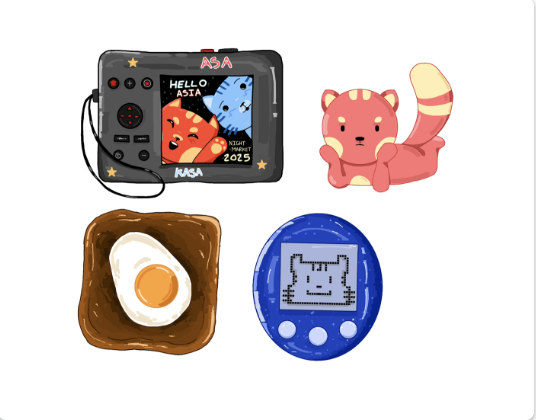
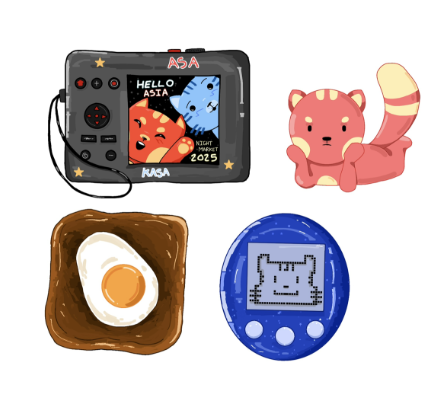
Make merch cards clickable and responsive
Add IDs to merch article elements and make images open the order Google Form in a new tab via onclick. Update layout and styles: .card_container now uses flex with centering, wrapping and gap; add hover scale/transition for merch cards; enforce consistent image sizing (100% width, 250px height, object-fit: contain). Also update tote-bag and stickers image assets.

diff --git a/styles_sheets/styles.css b/styles_sheets/styles.css
@@ -143,6 +143,10 @@ main {
 .card_container {
     text-align: center;
     margin-top: 25px;
+    display: flex;
+    justify-content: center;
+    flex-wrap: wrap;
+    gap: 20px;
 }
 
 .card {
@@ -167,6 +171,26 @@ main {
 }
 .card a:hover {
     text-decoration: underline;
+}
+.card_container #tote_bags:hover, #stickers:hover, #keychains:hover {
+    transform: scale(1.05);
+    transition: transform 0.3s ease;
+    cursor: pointer;
+}
+.card #tote_bags img {
+    width: 100%;
+    height: 250px;
+    object-fit: contain;
+}
+.card #stickers img {
+    width: 100%;
+    height: 250px;
+    object-fit: contain;
+}
+.card #keychains img {
+    width: 100%;
+    height: 250px;
+    object-fit: contain;
 }
 
 .gallery_placeholder {

diff --git a/merch.html b/merch.html
@@ -49,22 +49,22 @@
     <section class="card_container">
         <h3 class="visually-hidden">Merchandise section</h3>
 
-        <article class="card">
+        <article class="card" id="tote_bags">
             <h3><a href="https://docs.google.com/forms/d/e/1FAIpQLSeE_krw2rPZeYqUXxpmPDpSUicmxU1JOmaXEzbfZk4ehLHZvA/viewform">Tote Bags</a></h3>
             <p>ASA branded tote bags.</p>
-            <img src="images/tote-bag.png" alt="Tote Bag" class="merch_image">
+            <img src="images/tote-bag.png" alt="Tote Bag" class="merch_image" onclick="window.open('https://docs.google.com/forms/d/e/1FAIpQLSeE_krw2rPZeYqUXxpmPDpSUicmxU1JOmaXEzbfZk4ehLHZvA/viewform', '_blank')">
         </article>
 
-        <article class="card">
+        <article class="card" id="stickers">
             <h3><a href="https://docs.google.com/forms/d/e/1FAIpQLSeE_krw2rPZeYqUXxpmPDpSUicmxU1JOmaXEzbfZk4ehLHZvA/viewform">Stickers</a></h3>
             <p>ASA branded stickers.</p>
-            <img src="images/stickers.png" alt="Stickers" class="merch_image">
+            <img src="images/stickers.png" alt="Stickers" class="merch_image" onclick="window.open('https://docs.google.com/forms/d/e/1FAIpQLSeE_krw2rPZeYqUXxpmPDpSUicmxU1JOmaXEzbfZk4ehLHZvA/viewform', '_blank')">
         </article>
 
-        <article class="card">
+        <article class="card" id="keychains">
             <h3><a href="https://docs.google.com/forms/d/e/1FAIpQLSeE_krw2rPZeYqUXxpmPDpSUicmxU1JOmaXEzbfZk4ehLHZvA/viewform">Keychains</a></h3>
             <p>ASA branded keychains.</p>
-            <img src="images/keychains.png" alt="Keychains" class="merch_image">
+            <img src="images/keychains.png" alt="Keychains" class="merch_image" onclick="window.open('https://docs.google.com/forms/d/e/1FAIpQLSeE_krw2rPZeYqUXxpmPDpSUicmxU1JOmaXEzbfZk4ehLHZvA/viewform', '_blank')">
         </article>
     </section>
 